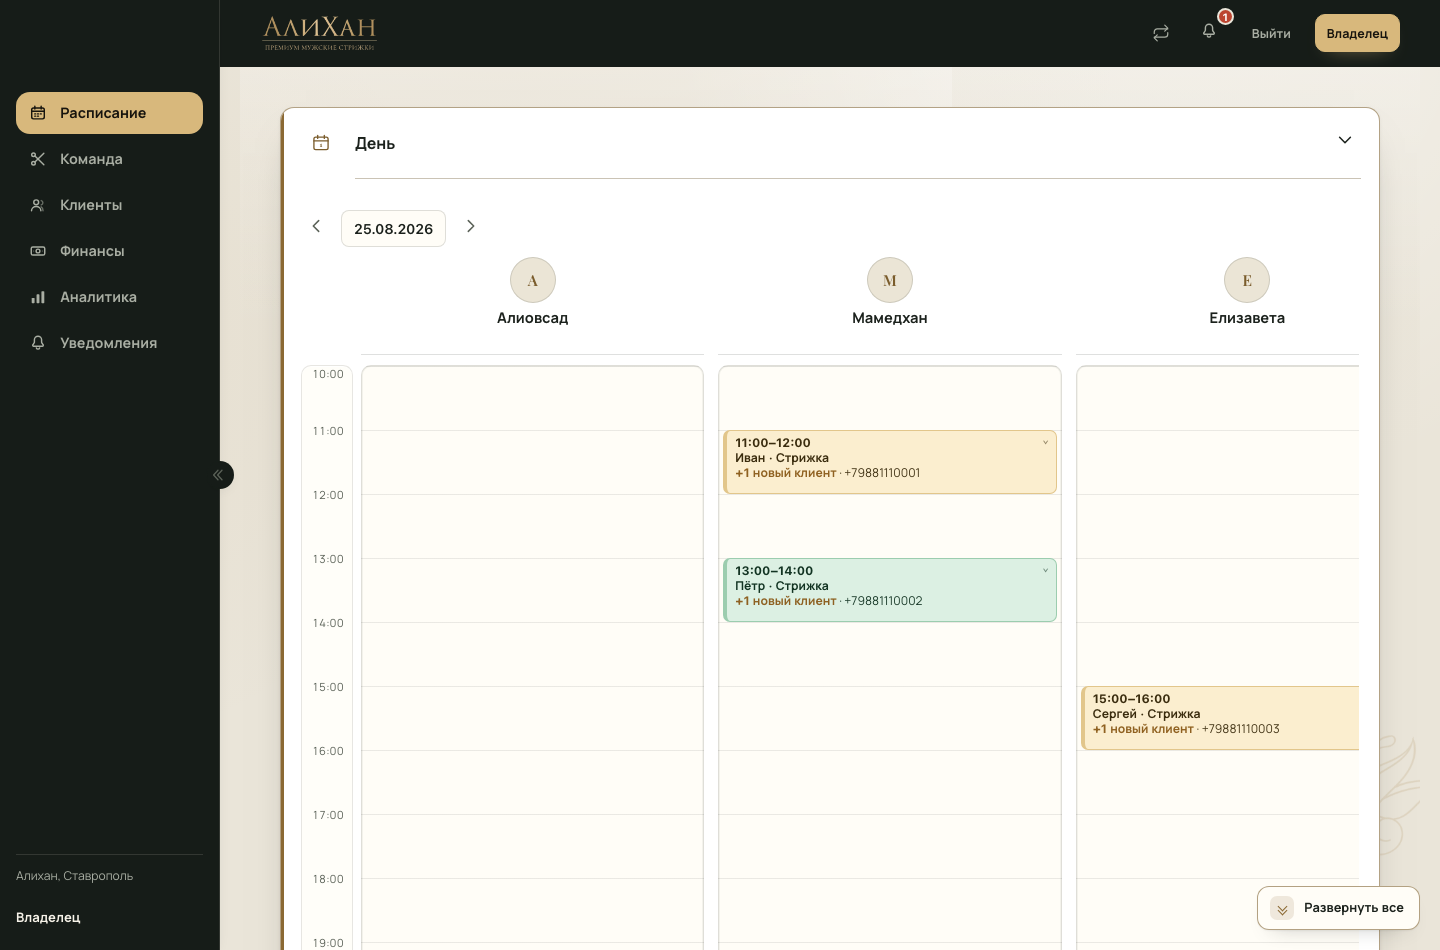
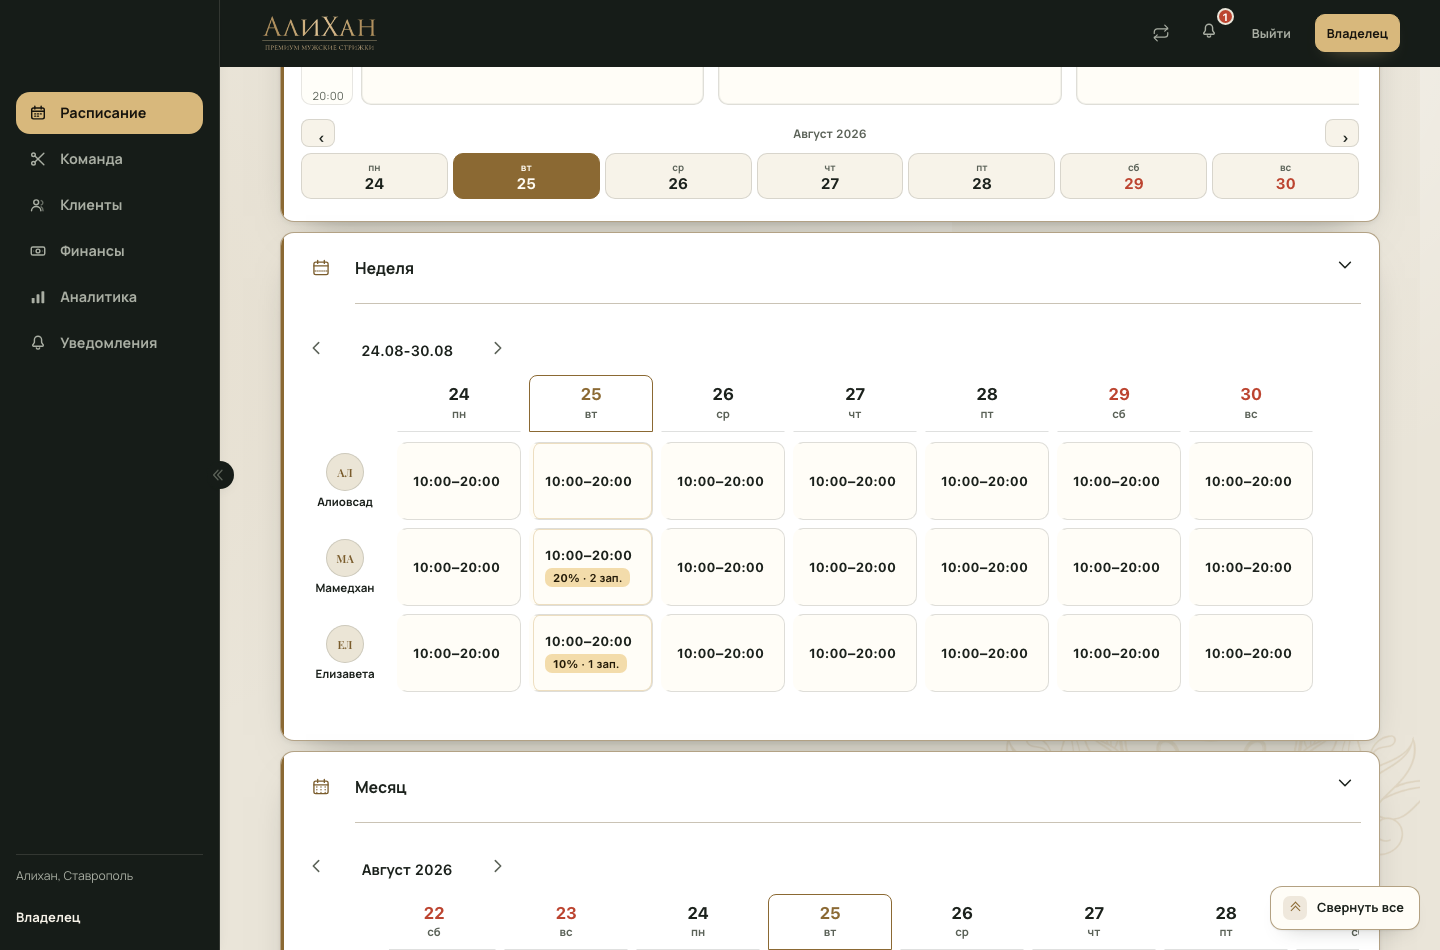
Прогон кабинетов чинится по первопричине, а не заплатками
Три причины плавающих результатов, две из них - мои неверные выводы,
а не дефекты продукта.

Кнопка "Развернуть все" выбиралась не та: их на странице несколько,
все position:fixed в одном углу, а innerText скрытого элемента в Chrome
всё равно возвращает текст. При промахе прогон молча шёл дальше и сверял
вдвое более бедный экран. Проверять видимость через offsetParent нельзя -
у position:fixed он всегда null.

Драйвер печатал не по-человечески: текст ехал прямо в keyDown, тогда как
Chrome вставляет символ по отдельному событию char. Поля входа на втором
и третьем кабинете оставались пустыми - отсюда "пустые кабинеты
администратора и мастера", которых на деле нет: 2448 и 1192 знака.

Клику по координатам первопричину не нашёл. Хит-тест, ради которого он
заводился, сохранён, нажатие идёт по элементу - ложных падений больше нет.

Доказательство "у Алихана ничего не изменилось" пересобрано на полных
экранах: 2716 / 2448 / 1192 знака, различий строк ноль. Скринер клиники
нашёл мою ошибку - панель записи строилась до прихода словаря; помечена
data-term, теперь подстановка её догоняет. Скринер 22 -> 9 слов.

diff --git a/assets/crm-navigation-panels.js b/assets/crm-navigation-panels.js
@@ -111,7 +111,7 @@ export function upgradeMasterBookingPanel(root = document) {
   const details = document.createElement('details');
   details.className = 'staff-card schedule-view-card booking-view-card';
   details.id = 'scheduleCard-booking-view';
-  details.innerHTML = `<summary><div class="avatar-icon" aria-hidden="true"><svg viewBox="0 0 24 24" fill="none" stroke="currentColor" stroke-width="1.6" stroke-linecap="round" stroke-linejoin="round"><rect x="3.5" y="5" width="17" height="15" rx="2.2"/><line x1="3.5" y1="9.5" x2="20.5" y2="9.5"/><path d="M8.5 14h7"/></svg></div><div class="summary-meta"><div class="name">${Tc('booking.nom')}</div><div class="role">${P('booking.detailsTitle')}</div></div><span class="chevron">▸</span></summary>`;
+  details.innerHTML = `<summary><div class="avatar-icon" aria-hidden="true"><svg viewBox="0 0 24 24" fill="none" stroke="currentColor" stroke-width="1.6" stroke-linecap="round" stroke-linejoin="round"><rect x="3.5" y="5" width="17" height="15" rx="2.2"/><line x1="3.5" y1="9.5" x2="20.5" y2="9.5"/><path d="M8.5 14h7"/></svg></div><div class="summary-meta"><div class="name" data-term="booking.nom" data-term-cap>${Tc('booking.nom')}</div><div class="role" data-phrase="booking.detailsTitle">${P('booking.detailsTitle')}</div></div><span class="chevron">▸</span></summary>`;
   const body = document.createElement('div');
   body.className = 'staff-card-body';
   body.append(view);
@@ -132,7 +132,7 @@ export function upgradeBookingPanel(root = document) {
   const details = document.createElement('details');
   details.className = 'staff-card schedule-view-card booking-create-card';
   details.id = 'scheduleCard-booking';
-  details.innerHTML = `<summary><div class="avatar-icon" aria-hidden="true"><svg viewBox="0 0 24 24" fill="none" stroke="currentColor" stroke-width="1.6" stroke-linecap="round" stroke-linejoin="round"><path d="M12 5v14M5 12h14"/></svg></div><div class="summary-meta"><div class="name">${Tc('booking.nom')}</div><div class="role">Добавить ${T('client.acc')} в расписание</div></div><span class="chevron">▸</span></summary>`;
+  details.innerHTML = `<summary><div class="avatar-icon" aria-hidden="true"><svg viewBox="0 0 24 24" fill="none" stroke="currentColor" stroke-width="1.6" stroke-linecap="round" stroke-linejoin="round"><path d="M12 5v14M5 12h14"/></svg></div><div class="summary-meta"><div class="name" data-term="booking.nom" data-term-cap>${Tc('booking.nom')}</div><div class="role" data-phrase="booking.addToSchedule">${P('booking.addToSchedule')}</div></div><span class="chevron">▸</span></summary>`;
   const body = document.createElement('div');
   body.className = 'staff-card-body';
   body.append(form);

diff --git a/api/lib/vertical-terms.js b/api/lib/vertical-terms.js
@@ -150,6 +150,8 @@ export const PHRASES = {
     'schedule.savedWithConflicts': 'Сохранено. На это время уже есть {count} реальных записей - в колокольчике уведомлений появилось, с кем связаться',
     'schedule.notClosedConflicts': 'не закрыто из-за записей',
     'booking.detailsTitle': 'Детали выбранного визита',
+    'booking.addToSchedule': 'Добавить клиента в расписание',
+    'booking.pickInSchedule': 'Выберите запись в расписании - здесь появятся её детали',
     'booking.servicesUnknown': 'Услуги по этой записи не указаны',
     'renew.waitingClient': 'Ждём клиента через {days}',
     'renew.byMasterAdvice': 'по рекомендации мастера',
@@ -220,6 +222,8 @@ export const PHRASES = {
     'schedule.savedWithConflicts': 'Сохранено. На это время уже есть {count} реальных приёмов - в колокольчике уведомлений появилось, с кем связаться',
     'schedule.notClosedConflicts': 'не закрыто из-за приёмов',
     'booking.detailsTitle': 'Детали выбранного приёма',
+    'booking.addToSchedule': 'Добавить пациента в расписание',
+    'booking.pickInSchedule': 'Выберите приём в расписании - здесь появятся его детали',
     'booking.servicesUnknown': 'Процедуры по этому приёму не указаны',
     'renew.waitingClient': 'Ждём пациента через {days}',
     'renew.byMasterAdvice': 'по рекомендации врача',

diff --git a/assets/crm-terms.js b/assets/crm-terms.js
@@ -143,6 +143,8 @@ export const FALLBACK = Object.freeze({
     "schedule.savedWithConflicts": "Сохранено. На это время уже есть {count} реальных записей - в колокольчике уведомлений появилось, с кем связаться",
     "schedule.notClosedConflicts": "не закрыто из-за записей",
     "booking.detailsTitle": "Детали выбранного визита",
+    "booking.addToSchedule": "Добавить клиента в расписание",
+    "booking.pickInSchedule": "Выберите запись в расписании - здесь появятся её детали",
     "booking.servicesUnknown": "Услуги по этой записи не указаны",
     "renew.waitingClient": "Ждём клиента через {days}",
     "renew.byMasterAdvice": "по рекомендации мастера",

diff --git a/plans/2026-08-24-multitenancy-etap-b-slovar.md b/plans/2026-08-24-multitenancy-etap-b-slovar.md
@@ -323,27 +323,47 @@ Postgres, два арендатора с разными вертикалями
 ### Регресс: у Алихана ничего не изменилось (улика, а не слова)
 
 Прогон кабинетов научился выгружать весь видимый текст (`DUMP_TEXT=файл`). Снят текст
-трёх кабинетов на коммите ДО окна (`2fe8cfe`) и на текущем: **владелец 789 знаков,
-администратор 166, мастер 134 - различий строк ноль во всех трёх**
+трёх кабинетов на коммите ДО окна (`2fe8cfe`) и на текущем: **владелец 2716 знаков,
+администратор 2448, мастер 1192 - различий строк ноль во всех трёх**
 
-### Три чужих дефекта, найденных по дороге (существовали ДО окна 68)
+### Прогон кабинетов был сломан - три первопричины найдены и устранены
 
-Проверено запуском того же прогона на коммите `2fe8cfe`:
+Сначала я списал плавающие результаты на «дефекты, существовавшие до окна» и обошёл
+их заплатками. Влад потребовал искать корень - и правильно: **две из трёх «находок»
+оказались моими неверными выводами, а не дефектами продукта**.
 
-1. **Клавиатурный ввод драйвера умирает после первого входа.** `typeReal` печатает в
-   пустоту на второй и третьей странице сессии браузера, хотя `document.activeElement` -
-   нужное поле, а `document.hasFocus()` истинно. Переход, `clickAt` и eval-клик сами по
-   себе печать не ломают (проверено отдельным стендом) - ломает именно успешный вход.
-   Причина не найдена, дальше копать несоразмерно. Обход: шаг входа в прогонах,
-   которым нужно несколько кабинетов, идёт через `type()`. Ограничение записано в
-   `tools/cdp.mjs`
-2. **Кабинеты администратора и мастера в местном прогоне пустые** - 166 и 134 знака,
-   только боковая панель. Ошибок в консоли нет. На проде они работают, значит дело в
-   наборе данных прогона. Вопрос Владу: заводить ли отдельное окно
-3. **Раскрытие разделов срабатывает через раз** - кнопка «Развернуть все» к моменту
-   клика перерисовывается. Добавлены три попытки, но полностью это не лечит: тот же
-   кабинет даёт то 789, то 2716 знаков. На сверку «до/после» не влияет - оба замера
-   идут одинаково
+1. **Кнопка «Развернуть все» выбиралась не та.** Кнопок на странице несколько - своя у
+   каждого раздела, и все `position:fixed` в одном углу. Прогон искал первую по тексту,
+   а `innerText` скрытого элемента в Chrome всё равно возвращает текст. Попадалась то
+   видимая, то нет; при неудаче хит-тест не подтверждал попадание, и прогон **молча**
+   шёл дальше, сверяя вдвое более бедный экран - отсюда «то 2716 знаков, то 789».
+   Проверка `offsetParent` тут тоже врёт: у `position:fixed` он всегда `null`.
+   Теперь выбирается кнопка с ненулевым размером, хит-тест сохранён, а результат
+   подтверждается сменой `aria-expanded`, а не попаданием курсора
+2. **Драйвер печатал не по-человечески.** `typeReal` слал текст прямо в `keyDown`.
+   Chrome вставляет символ по отдельному событию `char`, поэтому текст доходил через
+   раз: поля входа на втором и третьем кабинете оставались пустыми, сервер отвечал
+   «Введите email и PIN». Канонический порядок - `keyDown` без текста, `char` с
+   текстом, `keyUp`. Оставить оба (текст в `keyDown` И `char`) нельзя: символ
+   задваивается, «1234» превращается в «11223344» - проверено стендом на четырёх
+   образцах, включая кириллицу
+3. **Клик по координатам через CDP доставляется нестабильно** - это единственное, чему
+   я первопричину не нашёл. На одной странице сессии клик проходит, на другой не
+   доходит ни одно событие мыши, при том что элемент в этой точке верхний, страница
+   видима и в фокусе. Проверено: дело не в размере окна, не в эмуляции вьюпорта, не в
+   прогреве ввода, не в оставшихся процессах Chrome и не в задержке. Решение по сути:
+   хит-тест (ради которого координатный клик и заводился 09.08.2026) оставлен, а само
+   нажатие идёт по элементу - координатный клик добавлял ложные падения, не добавляя
+   проверки. Ограничение записано в `tools/cdp.mjs`
+
+**Что из этого следует про мои прежние выводы.** «Кабинеты администратора и мастера
+пустые - 166 и 134 знака» было НЕВЕРНО: пустыми они выглядели из-за сломанного ввода.
+С исправленным прогоном администратор даёт 2448 знаков, мастер - 1192, оба проходят
+пять прогонов из пяти. Отдельное окно под это не нужно
+
+**Скринер тоже стал видеть весь экран** - и сразу нашёл мою ошибку: панель «Запись»
+строится до прихода словаря и оставалась барбершопной. Помечена `data-term` /
+`data-phrase`, теперь подстановка догоняет её. **Скринер: 22 → 9 слов**
 
 ## Риски и что с ними делаем
 
